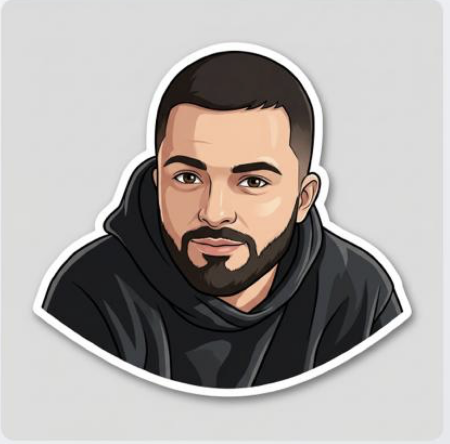
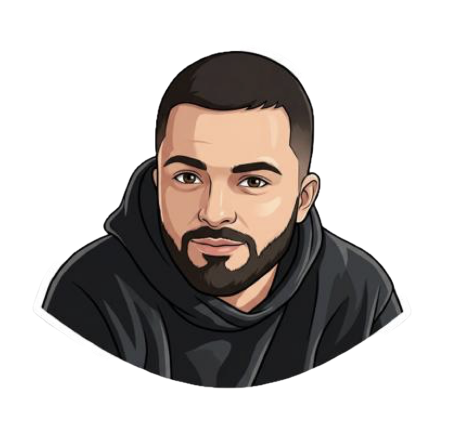
Update hero sticker carousel - improve layout and styling

diff --git a/src/app/page.tsx b/src/app/page.tsx
@@ -42,7 +42,6 @@ const styleCategories = [
 const heroImages = [
   { image: '/examples/sticker1.png', style: 'Sticker Example 1' },
   { image: '/examples/sticker2.png', style: 'Sticker Example 2' },
-  { image: '/examples/after.jpg', style: 'Sticker Example 3' },
 ];
 
 // Testimonials
@@ -105,7 +104,7 @@ function HeroSticker() {
   }, []);
 
   return (
-    <div className="relative flex h-48 w-full items-center justify-center md:h-64">
+    <div className="relative flex h-56 w-full items-center justify-center md:h-72">
       <AnimatePresence mode="wait">
         <motion.div
           key={currentIndex}
@@ -119,18 +118,16 @@ function HeroSticker() {
             animate={{ y: [0, -10, 0] }}
             transition={{ duration: 2, repeat: Infinity, ease: 'easeInOut' }}
           >
-            <div className="h-32 w-32 overflow-hidden rounded-xl border-4 border-white shadow-2xl md:h-40 md:w-40">
-              <img
-                src={heroImages[currentIndex].image}
-                alt={heroImages[currentIndex].style}
-                className="h-full w-full object-cover"
-                style={{ objectPosition: 'center 5%' }}
-              />
-            </div>
+            <img
+              src={heroImages[currentIndex].image}
+              alt={heroImages[currentIndex].style}
+              className="h-40 w-40 md:h-56 md:w-56 object-contain"
+              style={{ 
+                objectPosition: 'center 5%',
+                filter: 'drop-shadow(0 10px 25px rgba(0, 0, 0, 0.15))'
+              }}
+            />
           </motion.div>
-          <p className="mt-3 text-center text-xs font-semibold text-gray-600 md:mt-4 md:text-sm">
-            {heroImages[currentIndex].style}
-          </p>
         </motion.div>
       </AnimatePresence>
     </div>
@@ -453,17 +450,6 @@ export default function Home() {
                 INTO A STICKER!
               </span>
             </h1>
-
-            {/* Trust Badge */}
-            <motion.div
-              initial={{ opacity: 0, y: 10 }}
-              animate={{ opacity: 1, y: 0 }}
-              transition={{ delay: 0.2 }}
-              className="mb-3 inline-flex items-center gap-2 rounded-full bg-amber-50 px-3 py-1.5 text-xs font-semibold text-amber-900 md:mb-4 md:px-4 md:py-2 md:text-sm"
-            >
-              <Star className="h-3 w-3 fill-amber-400 text-amber-400 md:h-4 md:w-4" />
-              Loved by 150K+ users
-            </motion.div>
           </div>
 
           {/* Main CTA with Pink Glow */}
@@ -486,15 +472,16 @@ export default function Home() {
             </div>
           </motion.button>
 
-          {/* Secondary Trust */}
-          <div className="flex items-center gap-1.5 text-xs text-gray-500 md:gap-2 md:text-sm">
-            <div className="flex gap-0.5">
-              {[...Array(5)].map((_, i) => (
-                <Star key={i} className="h-3 w-3 fill-amber-400 text-amber-400 md:h-3.5 md:w-3.5" />
-              ))}
-            </div>
-            <span>by 150K+ users</span>
-          </div>
+          {/* Trust Badge */}
+          <motion.div
+            initial={{ opacity: 0, y: 10 }}
+            animate={{ opacity: 1, y: 0 }}
+            transition={{ delay: 0.2 }}
+            className="mt-3 md:mt-4 inline-flex items-center gap-2 rounded-full bg-amber-50 px-3 py-1.5 text-xs font-semibold text-amber-900 md:px-4 md:py-2 md:text-sm"
+          >
+            <Star className="h-3 w-3 fill-amber-400 text-amber-400 md:h-4 md:w-4" />
+            Loved by 150K+ users
+          </motion.div>
 
           {/* Image Preview and Generate Button */}
           {uploadedImage && (
@@ -529,7 +516,7 @@ export default function Home() {
         </section>
 
         {/* How It Works Link */}
-        <div className="mb-8 md:mb-12 flex justify-center">
+        <div className="mb-8 md:mb-12 mt-3 md:mt-4 flex justify-center">
           <motion.button
             onClick={() => setShowHowItWorksModal(true)}
             whileHover={{ scale: 1.05 }}
